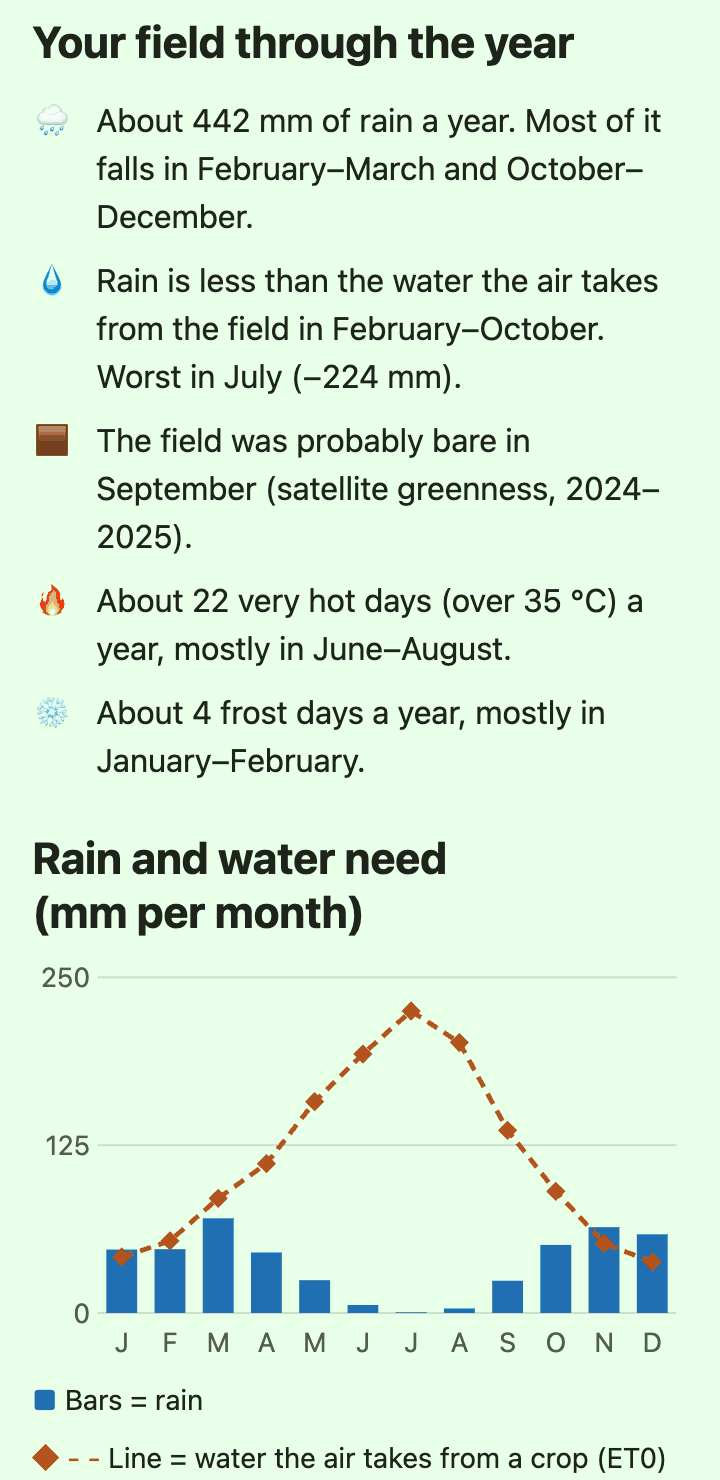
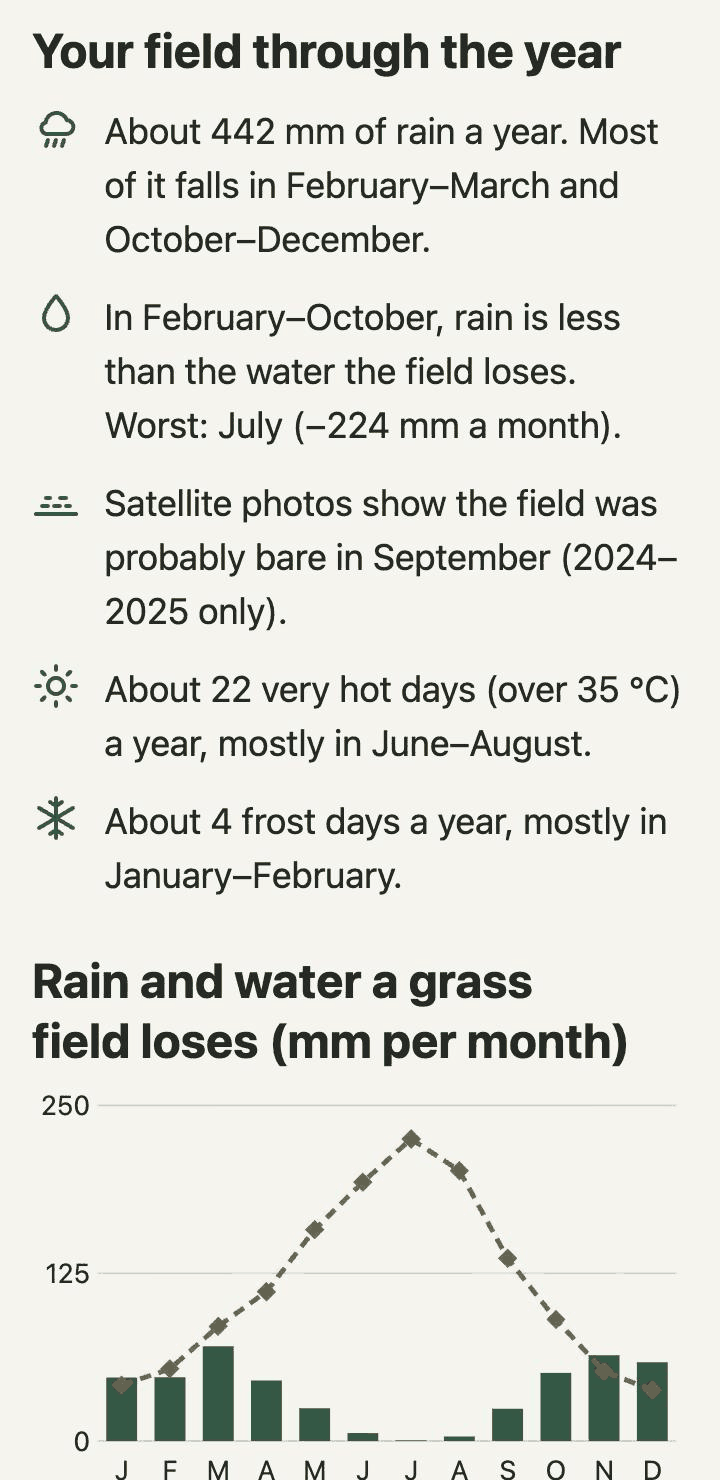
docs: refresh PWA screenshots and show them in the README

diff --git a/docs/submission-form.md b/docs/submission-form.md
@@ -1,0 +1,108 @@
+# Submission form — ready to paste
+
+Text for the "Submit for Judging" form on spaceappschallenge.org. Copy each block as is. Sources: `README.md`, `docs/nasa-data.md`, `docs/third-party.md`, `docs/ai-usage.md`.
+
+---
+
+## Summary * (50–200 words)
+
+FarmLens is a mobile-first web app that helps small farmers in Málaga, Spain, choose crop rotations that cope with hotter summers, drier springs and water restrictions. A farmer picks a field, enters the current rotation, irrigation, slope and priorities (save water, soil health, income, low risk). FarmLens turns 20 years of NASA POWER daily climate data (2005–2025) into a 12-month field calendar of rain, water deficit, frost, heat and heavy-rain days, and uses MODIS satellite vegetation data to find the months when the soil is left bare. It then compares the current rotation with three alternatives, such as adding a legume, sowing a cover crop in the bare window or switching to a less thirsty crop. For each option it explains why it is suggested, the evidence behind it, its benefits, what we do not know and which risks a local expert should check. It is designed for low-end phones with weak mobile data and works offline for the demo fields. FarmLens supports, and does not replace, farmers' judgment.
+
+---
+
+## Project Details *
+
+🌾 **The problem**
+Málaga's small farmers have cheap phones, weak coverage and little time. Every season they must pick the next crop while summers get hotter (about 40 °C in July inland), rain-fed fields get only 470–510 mm a year, irrigation faces restrictions and bare soil washes away in autumn storms. NASA data could help, but not in a form they can use.
+
+📱 **What FarmLens does**
+In four short steps the farmer chooses a field, enters the last 2–4 crops, sets priorities (water, soil, income, low risk) and adds irrigation and slope. They get:
+- 📅 **Field calendar:** rain, water deficit, frost, heat, heavy-rain days and bare-soil months.
+- 📈 **What is changing:** last 10 years vs the previous 10, plus risk levels. These are statistics over NASA history, not forecasts.
+- 🔄 **Rotation comparison:** the current rotation plus 3 alternatives. Each card says why, evidence, benefits, information gaps and risks for a local expert to check.
+
+🛰 **NASA data**
+- **NASA POWER** (2005–2025): temperature, rain, soil wetness, radiation, wind → water balance, frost, heat and trends.
+- **MODIS NDVI** (2024–2025): shows when the soil is left bare → cover-crop and anti-erosion options.
+- A sourced crop catalogue (FAO) and a rule-based engine. No machine learning: every number is traceable.
+
+💚 **Benefits and impact**
+Clear, honest options to protect soil and cope with heat and water scarcity, on the phone the farmer already has. It shows its uncertainty and supports, never replaces, the farmer's judgment.
+
+⚡ **Made for low-end phones**
+Installable PWA, under 200 KB of JavaScript, plain words, big buttons, works offline for demo fields, no accounts and no personal data.
+
+🛠 **Tools**
+Python, FastAPI, SQLite, vanilla JavaScript PWA, Leaflet + OpenStreetMap, Docker on Google Cloud Run. Claude Code helped us code and document; the team reviewed and tested everything and the app has no AI model.
+
+✨ **What is creative**
+Two NASA datasets turned into a decision readable in one minute, with evidence and unknowns shown on every suggestion.
+
+🚧 **Built vs next**
+Built: data clients, indicators, rotation engine, PWA, offline demo, public demo. Next: Spanish UI, SMAP, GPM and Landsat data, local prices, soil tests.
+
+🔗 Demo: https://farmlens-530581375456.europe-southwest1.run.app
+🔗 Code (MIT): https://github.com/S-Santiago/spaceappschallenge-2026
+
+---
+
+## NASA Data * (Link Text → Link URL)
+
+| Link Text | Link URL |
+|---|---|
+| NASA POWER (Prediction Of Worldwide Energy Resources) — Daily API, Agroclimatology | https://power.larc.nasa.gov/ |
+| NASA POWER Daily API documentation (v2.10.3) | https://power.larc.nasa.gov/docs/services/api/temporal/daily/ |
+| MODIS/Terra Vegetation Indices 16-Day L3 Global 250m SIN Grid V061 (MOD13Q1), NASA LP DAAC | https://doi.org/10.5067/MODIS/MOD13Q1.061 |
+| ORNL DAAC MODIS/VIIRS Land Product Subsets web service (TESViS) | https://modis.ornl.gov/data/modis_webservice.html |
+
+---
+
+## Space Agency Partner & Other Data (Link Text → Link URL)
+
+**Data and references**
+
+| Link Text | Link URL |
+|---|---|
+| FAO Irrigation and Drainage Paper 56, Crop evapotranspiration (crop coefficients, ET₀ method) | https://www.fao.org/4/x0490e/x0490e00.htm |
+| FAO Irrigation Water Management Training Manual 3, Irrigation water needs (crop water needs) | https://www.fao.org/3/s2022e/s2022e00.htm |
+| FAO Irrigation and Drainage Paper 66, Crop yield response to water (crop temperature parameters) | https://www.fao.org/3/i2800e/i2800e.pdf |
+| OpenStreetMap map tiles and data (© OpenStreetMap contributors, ODbL) | https://www.openstreetmap.org/copyright |
+| OpenStreetMap Nominatim (place search and Málaga province outline) | https://nominatim.openstreetmap.org/ |
+
+**Libraries and tools**
+
+| Link Text | Link URL |
+|---|---|
+| Leaflet 1.9.4 (map library, BSD-2-Clause) | https://github.com/Leaflet/Leaflet |
+| FastAPI (MIT) | https://github.com/fastapi/fastapi |
+| Uvicorn (BSD-3-Clause) | https://github.com/encode/uvicorn |
+| Starlette (BSD-3-Clause) | https://github.com/encode/starlette |
+| Pydantic (MIT) | https://github.com/pydantic/pydantic |
+| httpx (BSD-3-Clause) | https://github.com/encode/httpx |
+| SQLite (public domain) | https://www.sqlite.org/ |
+| pytest (MIT) | https://docs.pytest.org/ |
+| Python 3.12 Docker image (base of the public demo) | https://hub.docker.com/_/python |
+| Google Cloud Run (hosting of the public demo) | https://cloud.google.com/run |
+| Claude Code, Anthropic (AI coding assistant, declared in docs/ai-usage.md) | https://www.anthropic.com/claude-code |
+| Taste skill, design-taste-frontend (MIT, dev tooling) | https://github.com/Leonxlnx/taste-skill |
+| Frontend Design skill (Apache-2.0, dev tooling) | https://github.com/anthropics/claude-plugins-official |
+| Impeccable skill (Apache-2.0, dev tooling) | https://github.com/pbakaus/impeccable |
+
+**Our own work**
+
+| Link Text | Link URL |
+|---|---|
+| FarmLens source code, documentation and AI usage declaration (MIT) | https://github.com/S-Santiago/spaceappschallenge-2026 |
+
+---
+
+## Checkboxes
+
+- Agree to Terms and Conditions: **tick it yourself** (you are accepting terms).
+- Confirm All Work is Original: **tick it yourself**. Before ticking, check that every external resource is in the two tables above and that nothing copyrighted is in the demo (images, music, fonts).
+
+## Before you press submit
+- The GitHub repo must be **public** and the link open without login.
+- Open the demo link on a phone and confirm it loads.
+- Table row for the Taste skill: its bundled photos are not used in the app. If you prefer, drop the three skill rows (dev tooling only).
+- Check FAO links open (they were not tested from here).

diff --git a/docs/ai-usage.md b/docs/ai-usage.md
@@ -100,3 +100,4 @@ Append-only, one row per AI-assisted change, **no sequence numbers** (rows are o
 | 2026-11-15 12:27 | @HectorLopGar-Dev | Claude Code (Claude Opus 5.5) | NASA data citation in the app ("Where the data comes from"): POWER and MODIS lines now give service and version, data period and date accessed (POWER asks for version and date accessed; UX guide asks for the date of the data); `accessed` date stored in the POWER and MODIS metadata at download; committed samples backfilled with the date of the commit that wrote each file | `src/fieldshift/climate.py`, `src/fieldshift/power.py`, `src/fieldshift/modis.py`, `data/samples/{power,modis}_*.json`, `tests/test_climate.py` | pytest 138 pass, node --test 67 pass; sample files checked to change only by the added `accessed` field (+24 bytes each); citation text for Vega de Antequera printed from the real samples. Not checked in a browser (port 8000 kept free for the tunnel) |
 | 2026-11-14 17:49 | @sebasbarrabaja-cmyk | Claude Code (Claude Opus 5.5) + Taste skill (design-taste-frontend) | Landing/pitch page for the jury: copy, layout dealt by the skill's scripts (hero collage, nav-centre, close-word, footer-columns, surface-pairs, counter-rolls moment), FarmLens's own colours, app screens drawn as live HTML with real engine results for the 3 demo fields | `web/pitch/index.html`, `web/pitch/assets/` (kit copies), `docs/third-party.md` | Every figure taken from the real engine/API and NASA samples (no invented numbers); Taste gate PASS with 1 waiver (diagram pills counted as buttons); checked at 1440, 1024, 820, 768, 390 and 320 px. 2026-11-15: app screens moved to the PWA's new palette (#79/#80), canonical URL set to the Cloud Run link, missing share image removed; scores re-checked against the live API (Antequera 66/76/75/73) and every page asset served 200 by the local API at `/pitch/` |
 | 2026-11-15 12:30 | @sebasbarrabaja-cmyk | Claude Code (Claude Opus 5.5) | README final pass: status line, decade trend numbers for the 3 demo fields, phone screenshots in §3, public link and landing page in §9; AI summary updated (PWA, API and landing page mentioned, mock-data sentence replaced since the mocks were removed) | `README.md`, `docs/ai-usage.md` | Trend numbers taken from `/api/analyze` on the local API for the 3 demo fields (`trends.rain_change_pct`, `trends.heat_days_change`, defined in `docs/indicators.md` I-10/I-11): Antequera −14.6 % / +13.2 days, Campillos −9.3 % / +14.5, Guadalhorce −14.2 % / 0.0; screenshot paths checked; no code changed |
+| 2026-11-15 15:55 | @S-Santiago | Claude Code (Claude Sonnet 5.5) | Refreshed the PWA screenshots (new app icon and current UI) captured at 360 × 740 from the running app, colour-quantised, and added them to the README (real app screens, not AI-generated images); removed the stale offline screenshot; drafted the submission form text | `docs/pitch/screenshots/*.png`, `README.md`, `docs/submission-form.md` | Every screenshot reviewed by eye (Vega de Antequera demo field, no personal data, no map shown); form text checked against `docs/nasa-data.md` and `docs/third-party.md` |

diff --git a/README.md b/README.md
@@ -54,12 +54,13 @@ Choosing a new crop is risky: a crop that improves the soil may need too much wa
 | 🔄 **Current rotation + 3 alternatives**, each with a score and an explanation | Climate profile + crop catalogue (sourced) + farmer inputs |
 
 <p align="center">
-  <img src="docs/pitch/screenshots/01-start-form-antequera.png" alt="FarmLens start form on a phone: pick a demo field, current rotation, priorities and farm" width="240">
-  <img src="docs/pitch/screenshots/03-rotation-options-antequera.png" alt="FarmLens results on a phone: current rotation and three alternatives with scores" width="240">
-  <img src="docs/pitch/screenshots/04-what-to-expect-heavy-rain-alert-antequera.png" alt="FarmLens What to expect tab with a heavy-rain alert for bare-soil months" width="240">
+  <img src="docs/pitch/screenshots/01-start-form-antequera.png" width="180" alt="FarmLens start screen: pick an example field">
+  <img src="docs/pitch/screenshots/03-rotation-options-antequera.png" width="180" alt="Current rotation and three alternatives with scores">
+  <img src="docs/pitch/screenshots/02a-climate-calendar-antequera.png" width="180" alt="Field through the year: rain, water loss, bare soil, hot and frost days">
+  <img src="docs/pitch/screenshots/04-what-to-expect-heavy-rain-alert-antequera.png" width="180" alt="What to expect: heavy-rain risk on bare soil, based on 21 years of NASA data">
 </p>
 
-*Real app screens (360 px phone, Antequera demo field). More in [`docs/pitch/screenshots/`](docs/pitch/screenshots/).*
+*Real screenshots of the app (Vega de Antequera demo field, 360 px wide, 15 Nov 2026). Not AI-generated.*
 
 Required by the challenge — for **at least three rotation strategies (including the current one)** the tool explains: why it was suggested · supporting evidence · benefits · information gaps · risks needing local review. It supports, and does not replace, farmers' judgment.
 
